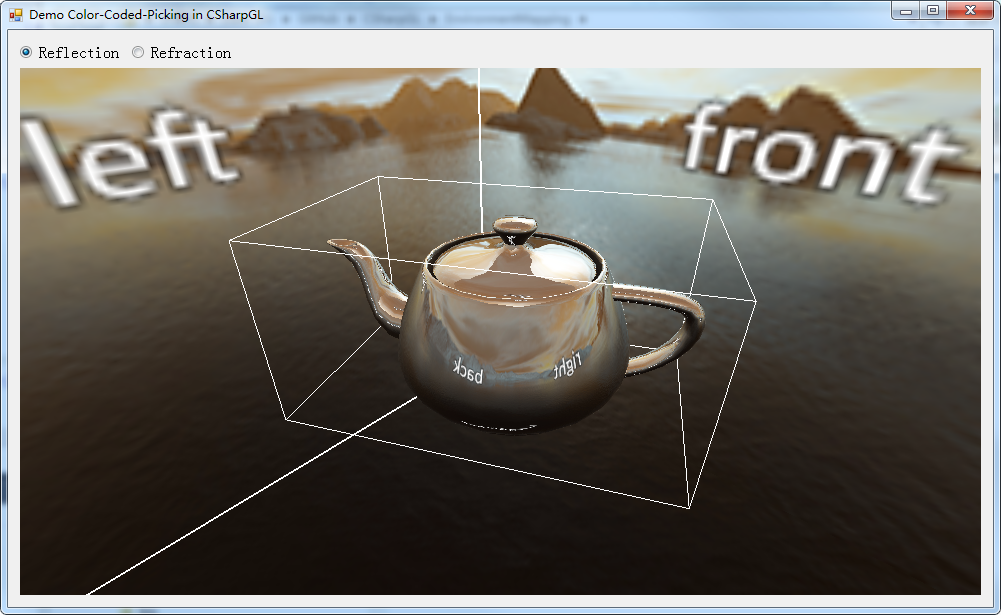
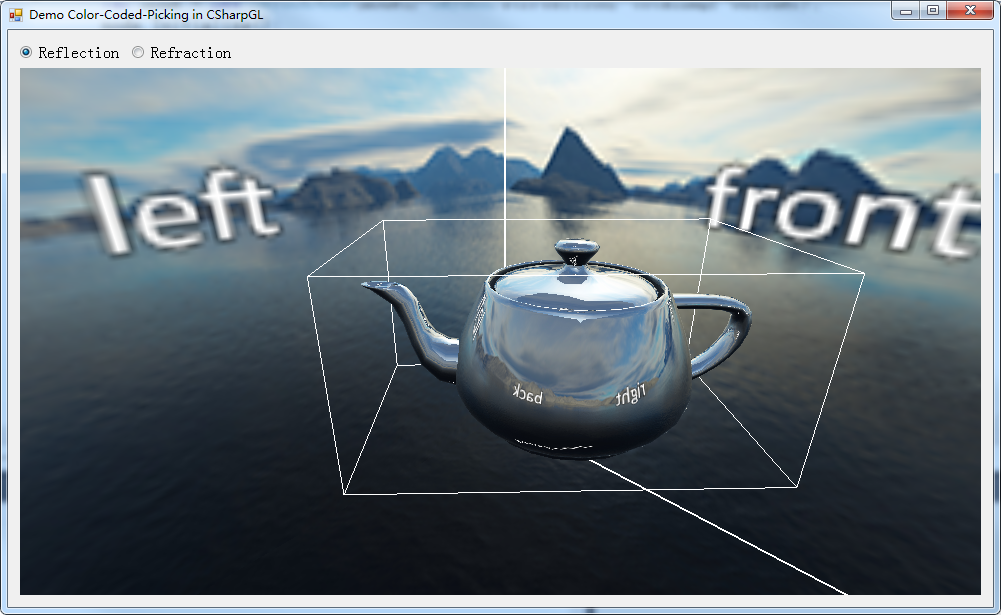
update

diff --git a/Demos/EnvironmentMapping/EnvironmentMappingTeapotNode.cs b/Demos/EnvironmentMapping/EnvironmentMappingTeapotNode.cs
@@ -67,7 +67,7 @@ void main()
     float ratio = 1.00 / 1.52;
     vec3 I = normalize(Position - cameraPos);
     vec3 R = refract(I, normalize(Normal), ratio);
-    FragColor = vec4(texture(skybox, R).rgb, 0.1);
+    FragColor = vec4(texture(skybox, R).rgb, 1);
 }
 ";
 
@@ -93,7 +93,7 @@ void main()
                 var map = new AttributeMap();
                 map.Add(inPosition, Teapot.strPosition);
                 map.Add(inNormal, Teapot.strNormal);
-                refractBuilder = new RenderUnitBuilder(provider, map, new BlendState(BlendingSourceFactor.SourceAlpha, BlendingDestinationFactor.OneMinusSourceAlpha));
+                refractBuilder = new RenderUnitBuilder(provider, map);
             }
             var node = new EnvironmentMappingTeapotNode(model, Teapot.strPosition, reflectBuilder, refractBuilder);
             node.ModelSize = model.GetModelSize();

diff --git a/Demos/EnvironmentMapping/SkyboxNode.cs b/Demos/EnvironmentMapping/SkyboxNode.cs
@@ -78,7 +78,7 @@ void main()
         private Texture GetCubemapTexture(Bitmap totalBmp)
         {
             var dataProvider = GetCubemapDataProvider(totalBmp);
-            var storage = new CubemapTexImage2D((int)GL.GL_RGBA, totalBmp.Width / 4, totalBmp.Height / 3, 0, GL.GL_RGBA, GL.GL_UNSIGNED_BYTE, dataProvider);
+            var storage = new CubemapTexImage2D((int)GL.GL_RGBA, totalBmp.Width / 4, totalBmp.Height / 3, 0, GL.GL_BGRA, GL.GL_UNSIGNED_BYTE, dataProvider);
             var texture = new Texture(TextureTarget.TextureCubeMap, storage,
                 new TexParameteri(TexParameter.PropertyName.TextureMagFilter, (int)GL.GL_LINEAR),
                 new TexParameteri(TexParameter.PropertyName.TextureMinFilter, (int)GL.GL_LINEAR),
